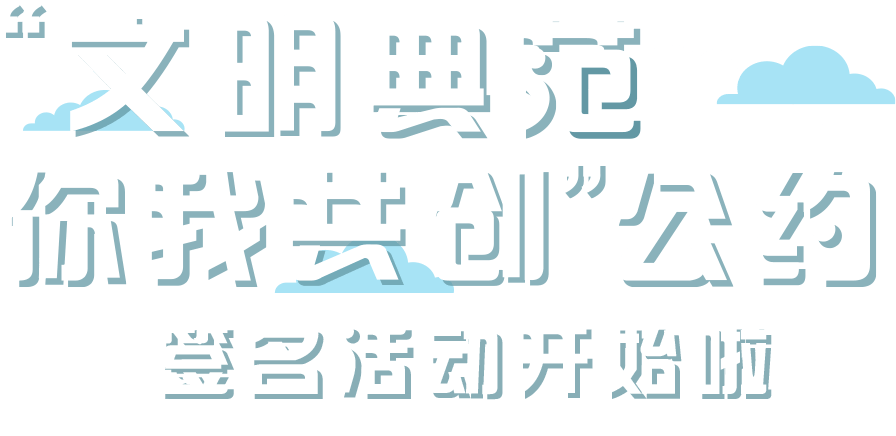
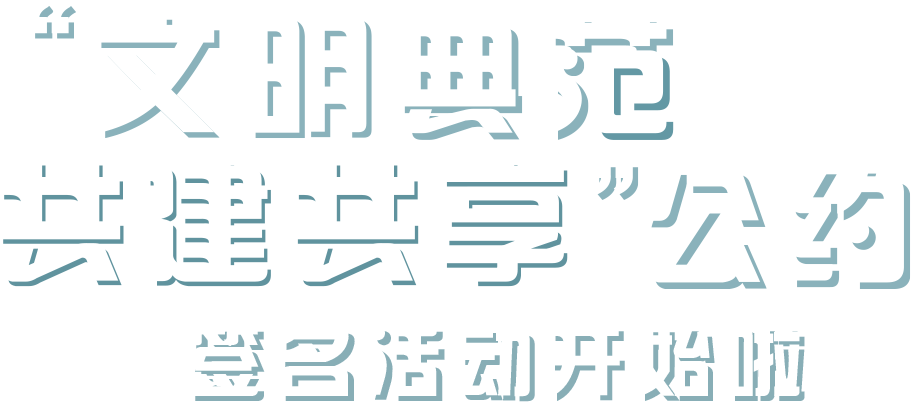
modify text and image

diff --git a/index.html b/index.html
@@ -6,7 +6,7 @@
     <meta name="viewport" content="width=device-width, initial-scale=1.0, user-scalable=no, maximum-scale=1.0,minimum-scale=1.0" />
     <link rel="stylesheet" href="https://fonts.googleapis.com/css?family=Noto+Sans+SC:100,300,400,500,700,900" />
     <link rel="stylesheet" href="https://fastly.jsdelivr.net/npm/vant@3/lib/index.css" />
-    <title>文明典范你我共创公约签名活动</title>
+    <title>文明典范共建共享公约签名活动</title>
   </head>
   <body>
     <div id="app"></div>

diff --git a/src/components/page-3.vue b/src/components/page-3.vue
@@ -78,7 +78,7 @@ const userSign = () => {
       <p>创建全国文明典范城市，</p>
       <p>需要每一位市民的参与！</p>
       <p>让我们一起践行</p>
-      <p>"文明典范·你我共创" 公约吧！</p>
+      <p>"文明典范·共建共享" 公约吧！</p>
     </div>
     <div v-if="store.currentPageIndex === 4" class="swiper-container">
       <van-swipe class="my-swipe" style="width: 16rem" :autoplay="3000" indicator-color="white">
